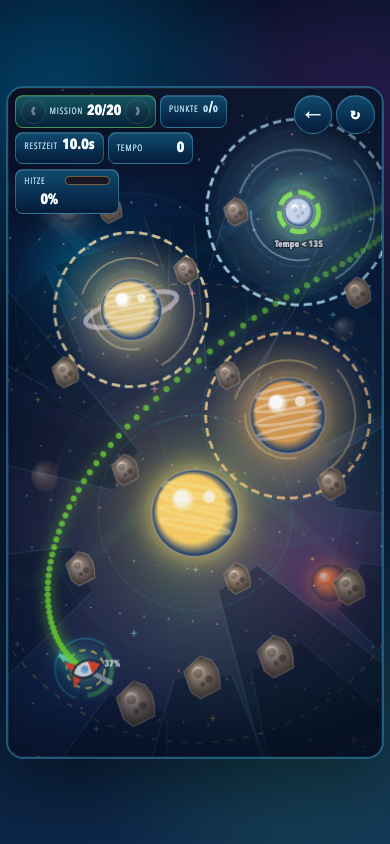
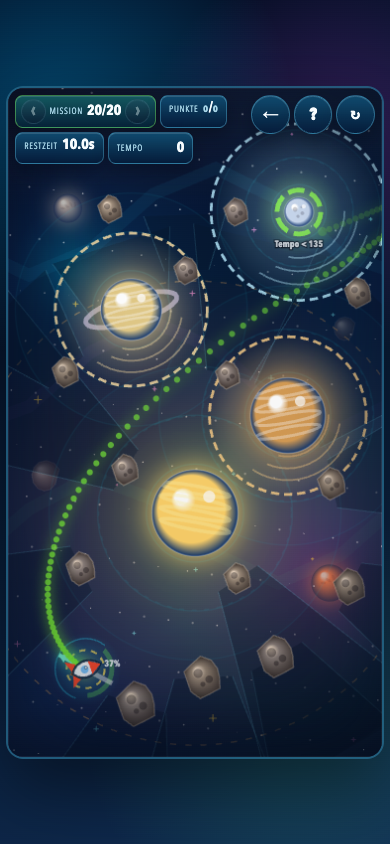
Refine gravity sling hints and solutions

diff --git a/gravity_sling.html b/gravity_sling.html
@@ -331,26 +331,26 @@
         }
 
         .level-hint {
-            margin-top: 0.46rem;
-            padding: 0.48rem 0.56rem;
-            border-radius: 0.48rem;
-            border: 1px solid rgba(255, 217, 120, 0.26);
-            background: rgba(58, 38, 12, 0.35);
+            margin-top: 0.28rem;
+            padding: 0;
+            border: 0;
+            background: transparent;
             color: #ffe7a3;
-        }
-
-        .level-hint__label {
-            display: block;
-            margin-bottom: 0.12rem;
-            color: #ffd45c;
-            font-size: 0.68rem;
-            font-weight: 900;
-            letter-spacing: 0.08em;
-            text-transform: uppercase;
         }
 
         .message.has-cta {
             margin-bottom: 4.55rem;
+        }
+
+        .hud.is-won .message.has-cta {
+            position: absolute;
+            left: 50%;
+            top: calc(50% - 2.3rem);
+            max-width: min(20rem, calc(100% - 1.5rem));
+            width: max-content;
+            margin: 0;
+            text-align: center;
+            transform: translate(-50%, -50%);
         }
 
         .message.is-hidden {
@@ -467,6 +467,11 @@
             opacity: 1;
             pointer-events: auto;
             transform: translate(-50%, 0) scale(1);
+        }
+
+        .hud.is-won #nextButton.is-visible {
+            top: calc(50% + 0.35rem);
+            bottom: auto;
         }
 
         #nextButton::after {
@@ -596,8 +601,7 @@
             }
 
             .level-hint {
-                margin-top: 0.36rem;
-                padding: 0.4rem 0.44rem;
+                margin-top: 0.22rem;
             }
 
             .message.has-cta,
@@ -675,7 +679,7 @@
                     <div class="actions">
                         <a class="button" href="index.html" title="Zurück zur Spielstation"
                             aria-label="Zurück zur Spielstation">←</a>
-                        <button id="hintButton" title="Level-Tipp anzeigen" aria-label="Level-Tipp anzeigen"
+                        <button id="hintButton" title="Hinweis anzeigen" aria-label="Hinweis anzeigen"
                             aria-pressed="false" hidden>?</button>
                         <button id="restartButton" title="Mission neu starten"
                             aria-label="Mission neu starten">↻</button>
@@ -733,8 +737,8 @@
                     copy: "Achtung, die Sonne ist heiß! Suche Schutz hinter anderen Himmelskörpern",
                 },
                 {
-                    title: "Level-Tipps",
-                    copy: "Optionale Tipps findest du auf dem ? oben rechts.",
+                    title: "Hinweise",
+                    copy: "Das ? oben rechts öffnet bei Bedarf eine kurze Hilfe zur Flugbahn.",
                 },
             ];
 
@@ -766,7 +770,7 @@
                     hazards: [
                         { label: "Asteroid", x: 330, y: 505, r: 22, color: "#9c8b7a" },
                     ],
-                    hint: "Ziehen, zielen, loslassen. Ohne Schwerkraft fliegt die Sonde geradeaus - aber nicht durch den Brocken.",
+                    hint: "Starte sehr sanft nach rechts oben. Die direkte Linie läuft links am Brocken vorbei und trifft den Zielkreis von unten.",
                 },
                 {
                     name: "Erste Ablenkung", // level 2
@@ -779,7 +783,7 @@
                         { label: "Asteroid", x: 188, y: 686, r: 20, color: "#9c8b7a" },
                         { label: "Asteroid", x: 382, y: 482, r: 24, color: "#8d817c" },
                     ],
-                    hint: "Ziehe mittelstark nach links unten. Merkur zieht die Bahn zwischen den Brocken ins Ziel.",
+                    hint: "Lass die Sonde links unten um Merkur ausholen. Danach steigt sie rechts am Planeten vorbei und kippt von unten in die Zielzone.",
                 },
                 {
                     name: "Atmosphären-Fenster", // level 3
@@ -793,7 +797,7 @@
                         { label: "Asteroid", x: 190, y: 492, r: 22, color: "#8d817c" },
                         { label: "Asteroid", x: 430, y: 438, r: 20, color: "#9c8b7a" },
                     ],
-                    hint: "Die helle Atmosphärenzone bremst die Sonde. Streife Mars knapp, statt nur vorbei zu schießen.",
+                    hint: "Führe die Bahn knapp durch den unteren Rand der Mars-Atmosphäre. Der kurze Bremskontakt macht die Kurve eng genug für den Zielkreis.",
                 },
                 {
                     name: "Sonnen-Schwung", // level 4
@@ -807,7 +811,7 @@
                         { label: "Asteroid", x: 404, y: 620, r: 23, color: "#9c8b7a" },
                         { label: "Asteroid", x: 326, y: 338, r: 21, color: "#8d817c" },
                     ],
-                    hint: "Nah an der Sonne wird die Sonde schnell und heiß. Nutze den Schwung, aber bleib nicht zu lange im Glühen.",
+                    hint: "Nimm einen weiten Bogen links an der Sonne vorbei. Die Sonde soll oben über die Sonne ziehen und von links in die Zielzone fallen.",
                 },
                 {
                     name: "Doppelpass", // level 5
@@ -823,7 +827,7 @@
                         { label: "Asteroid", x: 412, y: 462, r: 22, color: "#9c8b7a" },
                         { label: "Asteroid", x: 318, y: 300, r: 21, color: "#8d817c" },
                     ],
-                    hint: "Zwei Körper formen die Flugbahn nacheinander. Triff die Lücke zwischen Venus und Mars.",
+                    hint: "Erst Mars links streifen, dann fast senkrecht durch die Lücke nach oben. Venus zieht den letzten Knick von unten in den Zielkreis.",
                 },
                 {
                     name: "Saturn-Lücke", // level 6
@@ -842,7 +846,7 @@
                         { label: "Ringbrocken", x: 438, y: 462, r: 20, color: "#8d817c" },
                         { label: "Ringbrocken", x: 488, y: 428, r: 22, color: "#9c8b7a" },
                     ],
-                    hint: "Saturn zieht stark. Die kleinen Brocken markieren die gefährliche Ringzone.",
+                    hint: "Hole links außen aus. Saturn zieht dich oben herum; danach fällt die Sonde rechts am Ring vorbei in die grüne Lücke.",
                 },
                 {
                     name: "Äußere Bahn", // level 7
@@ -861,7 +865,7 @@
                         { label: "Asteroid", x: 55, y: 574, r: 22, color: "#9c8b7a" },
                         { label: "Asteroid", x: 15, y: 644, r: 22, color: "#9c8b7a" }
                     ],
-                    hint: "Jupiter macht den großen Schwung, Neptun korrigiert am Ende. Die Außenbahn ist zugestellt.",
+                    hint: "Jupiter hebt die Bahn in einen langen Innenbogen. Bleib links von Neptun, dann zieht er die Spitze sauber in den Zielkreis.",
                 },
                 {
                     name: "Einfangen bei Pluto", // level 8
@@ -881,7 +885,7 @@
                         { label: "Asteroid", x: 454, y: 344, r: 20, color: "#8d817c" },
                         { label: "Asteroid", x: 414, y: 358, r: 20, color: "#8d817c" },
                     ],
-                    hint: "Treffen reicht nicht: Streife Plutos Atmosphäre zum Bremsen und komm aus der Sonnenhitze wieder heraus.",
+                    hint: "Steige knapp rechts an der Sonne hoch und lass die Bahn oben nach links ausdrehen. Pluto wird von links oben angeflogen, damit seine Atmosphäre bremst.",
                 },
                 {
                     name: "Drei-Körper-Kanal", // level 9
@@ -900,7 +904,7 @@
                         { label: "Asteroid", x: 338, y: 304, r: 20, color: "#8d817c" },
                         { label: "Asteroid", x: 418, y: 358, r: 30, color: "#8d817c" },
                     ],
-                    hint: "Die erste Masse zieht dich hoch, die Erde bremst im hellen Atmosphärenring. Kleine Korrekturen reichen.",
+                    hint: "Jupiter zieht dich links außen hoch. Danach führt der Korridor zwischen Mond und Asteroiden zur Zielzone; der Mond setzt den letzten Rechtsknick.",
                 },
                 {
                     name: "Finaler Sonnenbogen", // level 10
@@ -922,7 +926,7 @@
                         { label: "Asteroid", x: 242, y: 386, r: 20, color: "#9c8b7a" },
                         { label: "Asteroid", x: 392, y: 236, r: 22, color: "#8d817c" },
                     ],
-                    hint: "Der Sonnenbogen gibt Schwung, aber Schatten hinter den Brocken verschafft Abkühlung. Komme sauber bei Pluto an.",
+                    hint: "Spiele eine schmale S-Kurve: rechts an der unteren Sonne vorbei, links am Saturnring hoch und von unten in Plutos Bremsring.",
                 },
                 {
                     name: "Orbit-Schleuse", // level 11
@@ -943,7 +947,7 @@
                         { label: "Asteroiden", x: 316, y: 846, r: 27, color: "#9c8b7a" },
                         { label: "Asteroiden", x: 410, y: 810, r: 41, color: "#8d817c" },
                     ],
-                    hint: "Der direkte Weg ist dicht. Ziehe kurz nach rechts und lass Jupiters Atmosphäre den langen Bogen zähmen.",
+                    hint: "Der direkte Weg ist dicht. Lass die Sonde links um Jupiter kreisen, oben über ihn hinwegziehen und langsam von links in die Schleuse fallen.",
                 },
                 {
                     name: "Kometenschweif", // level 12
@@ -966,7 +970,7 @@
                         { label: "Komet", x: 560, y: 250, r: 12, color: "#8d817c" },
                         { label: "Komet", x: 72, y: 438, r: 22, color: "#9c8b7a" },
                     ],
-                    hint: "Nutze die Sonne als riskanten Schwunggeber. Mars kann Schatten und Atmosphäre liefern, bevor oben das Tempo aus der Kurve geht.",
+                    hint: "Hole weit links im Sonnenfeld aus und schneide dann unter Mars in dessen Atmosphäre. Der Zielkreis wird von rechts oben angerollt.",
                 },
                 {
                     name: "Bremskorridor", // level 13
@@ -991,7 +995,7 @@
                         { label: "Trümmer", x: 360, y: 210, r: 20, color: "#9c8b7a" },
                         { label: "Trümmer", x: 222, y: 222, r: 20, color: "#8d817c" },
                     ],
-                    hint: "Der Korridor ist langsam. Lass Jupiter weit ausholen und streife danach die Erdatmosphäre, bevor der Mond dich ins Ziel kippt.",
+                    hint: "Jupiter trägt dich rechts hoch in den Korridor. Streife danach die untere rechte Erdatmosphäre; der Mond links oben hält die Linie flach genug.",
                 },
                 {
                     name: "Mondstaffel", // level 14
@@ -1018,7 +1022,7 @@
                         { label: "Splitter", x: 120, y: 254, r: 20, color: "#8d817c" },
                         { label: "Splitter", x: 492, y: 166, r: 20, color: "#9c8b7a" },
                     ],
-                    hint: "Eine Staffel aus kleinen Körpern übernimmt die Sonde. Suche keinen großen Bogen, sondern drei kleine Richtungswechsel.",
+                    hint: "Gehe zuerst links außen herum. Der untere Mond hebt die Linie, Mars bleibt rechts liegen, und der obere Mond schiebt diagonal in Plutos Rand.",
                 },
                 {
                     name: "Resonanz-Finale", // level 15
@@ -1048,7 +1052,7 @@
                         { label: "Barriere", x: 186, y: 190, r: 21, color: "#9c8b7a" },
                         { label: "Barriere", x: 330, y: 152, r: 20, color: "#8d817c" },
                     ],
-                    hint: "Finale: Der Süden ist verriegelt. Ziehe nach links oben, nimm Saturns oberen Bogen mit und lass Jupiter dich langsam zurück zu Pluto kippen.",
+                    hint: "Der Süden ist verriegelt. Fahre links außen bis zur oberen rechten Wende, dann fällt die Bahn zwischen Saturn und Jupiter zurück in Plutos Bremsfeld.",
                 },
                 {
                     name: "Jupiter-Saturn-Weiche", // level 16
@@ -1072,7 +1076,7 @@
                         { label: "Weiche", x: 476, y: 310, r: 21, color: "#8d817c" },
                         { label: "Weiche", x: 288, y: 204, r: 20, color: "#9c8b7a" },
                     ],
-                    hint: "Eine sichtbare Schwerkraft-Treppe: Jupiter zieht links an, Saturn dreht die Mitte und der Mond kippt die Sonde in die grüne Zone.",
+                    hint: "Jupiter links unten schickt dich auf die Außenbahn. Steige an Saturns linker Seite hoch; der Mond rechts oben setzt den letzten Knick ins Ziel.",
                 },
                 {
                     name: "Schattennadel", // level 17
@@ -1096,32 +1100,32 @@
                         { label: "Schattenstein", x: 352, y: 194, r: 20, color: "#9c8b7a" },
                         { label: "Schattenstein", x: 502, y: 206, r: 20, color: "#8d817c" },
                     ],
-                    hint: "Stich kurz in die Sonnennähe, suche Schatten hinter den Brocken und lass Erde und Mars den heißen Bogen nacheinander umlenken.",
+                    hint: "Ziehe links an der Sonne hoch, dann quer zwischen Mars und Erde. Die obere Schleife kommt zurück in Erdes Atmosphäre und rollt langsam ins Ziel.",
                 },
                 {
                     name: "Kreiselstaffel", // level 18
-                    launch: { x: 438, y: 824 },
-                    target: { x: 118, y: 208, r: 34, maxSpeed: 220 },
+                    launch: { x: 378, y: 824 },
+                    target: { x: 58, y: 208, r: 34, maxSpeed: 220 },
                     planets: [
-                        { label: "Neptun", x: 486, y: 650, r: 36, mass: 0.72, softening: 98, color: "#709cff", ring: false },
-                        { label: "Jupiter", x: 356, y: 504, r: 54, mass: 1.16, softening: 122, color: "#d79d55", ring: false, atmosphereRadius: 112, atmosphereDrag: 0.16, atmosphereColor: "#ffd189" },
-                        { label: "Saturn", x: 336, y: 292, r: 44, mass: 0.78, softening: 108, color: "#e2c987", ring: true, atmosphereRadius: 106, atmosphereDrag: 0.38, atmosphereColor: "#ffe0a5" },
+                        { label: "Neptun", x: 426, y: 650, r: 36, mass: 0.72, softening: 98, color: "#709cff", ring: false },
+                        { label: "Jupiter", x: 296, y: 504, r: 54, mass: 1.16, softening: 122, color: "#d79d55", ring: false, atmosphereRadius: 112, atmosphereDrag: 0.16, atmosphereColor: "#ffd189" },
+                        { label: "Saturn", x: 276, y: 292, r: 44, mass: 0.78, softening: 108, color: "#e2c987", ring: true, atmosphereRadius: 106, atmosphereDrag: 0.38, atmosphereColor: "#ffe0a5" },
                     ],
                     hazards: [
-                        { label: "Staffelstein", x: 364, y: 766, r: 24, color: "#9c8b7a" },
-                        { label: "Staffelstein", x: 260, y: 760, r: 23, color: "#8d817c" },
-                        { label: "Staffelstein", x: 128, y: 706, r: 25, color: "#9c8b7a" },
-                        { label: "Staffelstein", x: 486, y: 622, r: 23, color: "#8d817c" },
-                        { label: "Staffelstein", x: 306, y: 596, r: 20, color: "#9c8b7a" },
-                        { label: "Staffelstein", x: 90, y: 538, r: 22, color: "#8d817c" },
-                        { label: "Staffelstein", x: 392, y: 470, r: 21, color: "#9c8b7a" },
-                        { label: "Staffelstein", x: 156, y: 380, r: 21, color: "#8d817c" },
-                        { label: "Staffelstein", x: 462, y: 360, r: 22, color: "#9c8b7a" },
-                        { label: "Staffelstein", x: 252, y: 232, r: 20, color: "#8d817c" },
-                        { label: "Staffelstein", x: 58, y: 296, r: 19, color: "#9c8b7a" },
-                        { label: "Staffelstein", x: 186, y: 156, r: 20, color: "#8d817c" },
+                        { label: "Staffelstein", x: 304, y: 766, r: 24, color: "#9c8b7a" },
+                        { label: "Staffelstein", x: 200, y: 760, r: 23, color: "#8d817c" },
+                        { label: "Staffelstein", x: 68, y: 706, r: 25, color: "#9c8b7a" },
+                        { label: "Staffelstein", x: 426, y: 622, r: 23, color: "#8d817c" },
+                        { label: "Staffelstein", x: 246, y: 596, r: 20, color: "#9c8b7a" },
+                        { label: "Staffelstein", x: 30, y: 538, r: 22, color: "#8d817c" },
+                        { label: "Staffelstein", x: 332, y: 470, r: 21, color: "#9c8b7a" },
+                        { label: "Staffelstein", x: 96, y: 380, r: 21, color: "#8d817c" },
+                        { label: "Staffelstein", x: 402, y: 360, r: 22, color: "#9c8b7a" },
+                        { label: "Staffelstein", x: 192, y: 232, r: 20, color: "#8d817c" },
+                        { label: "Staffelstein", x: -2, y: 296, r: 19, color: "#9c8b7a" },
+                        { label: "Staffelstein", x: 126, y: 156, r: 20, color: "#8d817c" },
                     ],
-                    hint: "Von rechts unten aus zählt jeder Umlenker: Neptun öffnet die Bahn, Jupiter dreht sie zurück, Saturn setzt den letzten Kreisel.",
+                    hint: "Von rechts unten zuerst um Neptun nach außen. Danach diagonal zwischen Jupiter und Saturn hindurch; Saturn dreht die Linie links oben ins Ziel.",
                 },
                 {
                     name: "Atmosphären-Slalom", // level 19
@@ -1148,7 +1152,7 @@
                         { label: "Slalomtor", x: 330, y: 180, r: 16, color: "#9c8b7a" },
                         { label: "Slalomtor", x: 104, y: 194, r: 20, color: "#8d817c" },
                     ],
-                    hint: "Der Zielkorridor ist langsam. Slalome durch Jupiters und Erdes Atmosphäre, dann bremst Plutos Rand den Rücklauf.",
+                    hint: "Großer linker Slalom: Jupiter hebt dich außen, dann führt die Bahn durch Erdes Atmosphäre nach oben. Pluto wird von links angeflogen und bremst.",
                 },
                 {
                     name: "Dreifach-Finale", // level 20
@@ -1176,7 +1180,7 @@
                         { label: "Finalbarriere", x: 330, y: 178, r: 20, color: "#8d817c" },
                         { label: "Finalbarriere", x: 148, y: 174, r: 20, color: "#9c8b7a" },
                     ],
-                    hint: "Letzte Prüfung: Ein heißer Sonnenschwung, ein Jupiter-Rückzug und Saturns oberer Bogen müssen zusammenpassen, bevor Pluto dich weich einfängt.",
+                    hint: "Weit links aus dem Sonnenfeld heraus, dann diagonal durch die Lücke zwischen Saturn und Jupiter. Pluto oben rechts weich von links unten treffen.",
                 },
             ];
 
@@ -2459,7 +2463,8 @@
 
             function readyMessageHtml(level) {
                 const tutorial = mechanicTutorialForLevel(state.levelIndex);
-                const tutorialHtml = tutorial
+                const showingHint = state.hintVisible;
+                const tutorialHtml = tutorial && !showingHint
                     ? [
                         `<span class="message__mechanic">${escapeHtml(tutorial.title)}</span>`,
                         `<span class="message__copy">${escapeHtml(tutorial.copy)}</span>`,
@@ -2469,10 +2474,10 @@
                     ? `<span class="message__nudge">${escapeHtml(state.message)}</span>`
                     : "";
                 const hint = state.hintVisible
-                    ? `<div class="level-hint"><span class="level-hint__label">Level-Tipp</span>${escapeHtml(level.hint)}</div>`
+                    ? `<div class="level-hint">${escapeHtml(level.hint)}</div>`
                     : "";
                 return [
-                    tutorial ? "" : `<strong>${escapeHtml(level.name)}</strong>`,
+                    showingHint || !tutorial ? `<strong>${escapeHtml(level.name)}</strong>` : "",
                     tutorialHtml,
                     nudge,
                     hint,
@@ -2497,8 +2502,8 @@
                 ui.hint.disabled = !hintButtonVisible || navigationBlocked;
                 ui.hint.classList.toggle("is-active", state.hintVisible && hintButtonVisible);
                 ui.hint.setAttribute("aria-pressed", state.hintVisible && hintButtonVisible ? "true" : "false");
-                ui.hint.title = state.hintVisible ? "Level-Tipp ausblenden" : "Level-Tipp anzeigen";
-                ui.hint.setAttribute("aria-label", state.hintVisible ? "Level-Tipp ausblenden" : "Level-Tipp anzeigen");
+                ui.hint.title = state.hintVisible ? "Hinweis ausblenden" : "Hinweis anzeigen";
+                ui.hint.setAttribute("aria-label", state.hintVisible ? "Hinweis ausblenden" : "Hinweis anzeigen");
                 ui.prevSolved.title = previousSolvedIndex === null
                     ? "Keine frühere gelöste Mission"
                     : `Zu Mission ${previousSolvedIndex + 1}`;
@@ -2517,6 +2522,7 @@
                 ui.state.textContent = labels[state.mode] || state.mode;
                 ui.hud.classList.toggle("is-aiming", state.drag.active);
                 ui.hud.classList.toggle("is-active-flight", state.mode === "flying");
+                ui.hud.classList.toggle("is-won", state.mode === "won");
                 ui.message.classList.toggle("is-ready", state.mode === "ready");
                 ui.message.classList.toggle("is-launch-left", state.mode === "ready" && currentLevel().launch.x < WORLD.width / 2);
                 ui.message.classList.toggle("is-launch-right", state.mode === "ready" && currentLevel().launch.x >= WORLD.width / 2);

diff --git a/progress.md b/progress.md
@@ -171,3 +171,8 @@ Original prompt: Okay, now the second game should be a "Memory", utilizing the i
 - New user request: remove the Gravitas heat meter from the HUD because the rocket's visual heat cue is enough.
 - Gravitas heat HUD cleanup complete: removed the top-bar heat chip, thermal meter styles, and heat-meter DOM update code while keeping the underlying heat gameplay and `render_game_to_text` thermal diagnostics intact.
 - Verification: inline Gravitas script parsing, `npm test`, `git diff --check`, and the bundled web-game smoke client pass; full-page Chrome screenshot at `390x844` confirmed the HUD no longer shows the heat meter.
+- New user request: improve Gravitas level hints by removing the visible `Level-Tipp` label and making the copy describe the solver flight paths more specifically.
+- Gravitas hint-copy pass complete: opened the current solver screenshots for all 20 missions, rewrote every `level.hint` into concise route cues, changed opened hint cards to show mission title plus hint text only, renamed the `?` control copy to plain `Hinweis`, and flattened the hint card so it no longer contains a nested sub-card.
+- Verification: inline Gravitas script parsing, `npm test`, `git diff --check`, `rg` check for leftover `Level-Tipp`/hint-label markup, targeted browser check on mission 6's opened `?` card, and the bundled web-game smoke client pass. Temporary preview server and screenshot artifacts were cleaned up.
+- Follow-up UI pass: centered the Gravitas success state by adding a `hud.is-won` layout that places `Mission geschafft` and the `Weiter` button together in the middle of the playfield.
+- Verification: browser replay of mission 1 reached `won` and measured the settled success message/button group within about 2px of vertical center, with both elements horizontally centered. Inline Gravitas script parsing, `npm test`, `git diff --check`, and the bundled web-game smoke client pass.

diff --git a/docs/gravity_sling_solutions/README.md b/docs/gravity_sling_solutions/README.md
@@ -1,6 +1,6 @@
-# Gravitas Optimal Solutions
+# Gravity Sling Optimal Solutions
 
-Generated from `gravity_sling.html` at `2026-06-23T20:53:40.013Z`.
+Generated from `gravity_sling.html` at `2026-06-24T09:04:52.883Z`.
 
 The solver ranks winning shots by the same score formula as the game, so lower launch speed wins when a route still reaches the target. Screenshots show the aiming state for the logged drag point.
 
@@ -266,9 +266,9 @@ Screenshot prediction ratio: `1` (source game ratio: `0.1`).
 ![Mission 18 solution](screenshots/level-18.png)
 
 - Score: `2392`
-- Drag handle: `x 390.7, y 832.9`
+- Drag handle: `x 350.7, y 832.9`
 - From launch: 47.3 px left, 8.9 px down (41% power)
-- Launch point: `x 438.0, y 824.0`
+- Launch point: `x 398.0, y 824.0`
 - Pull vector: `x 47.3, y -8.9`
 - Launch speed: `80.6`
 - Arrival: `target_reached` at `5.73s`, speed `34.6`
